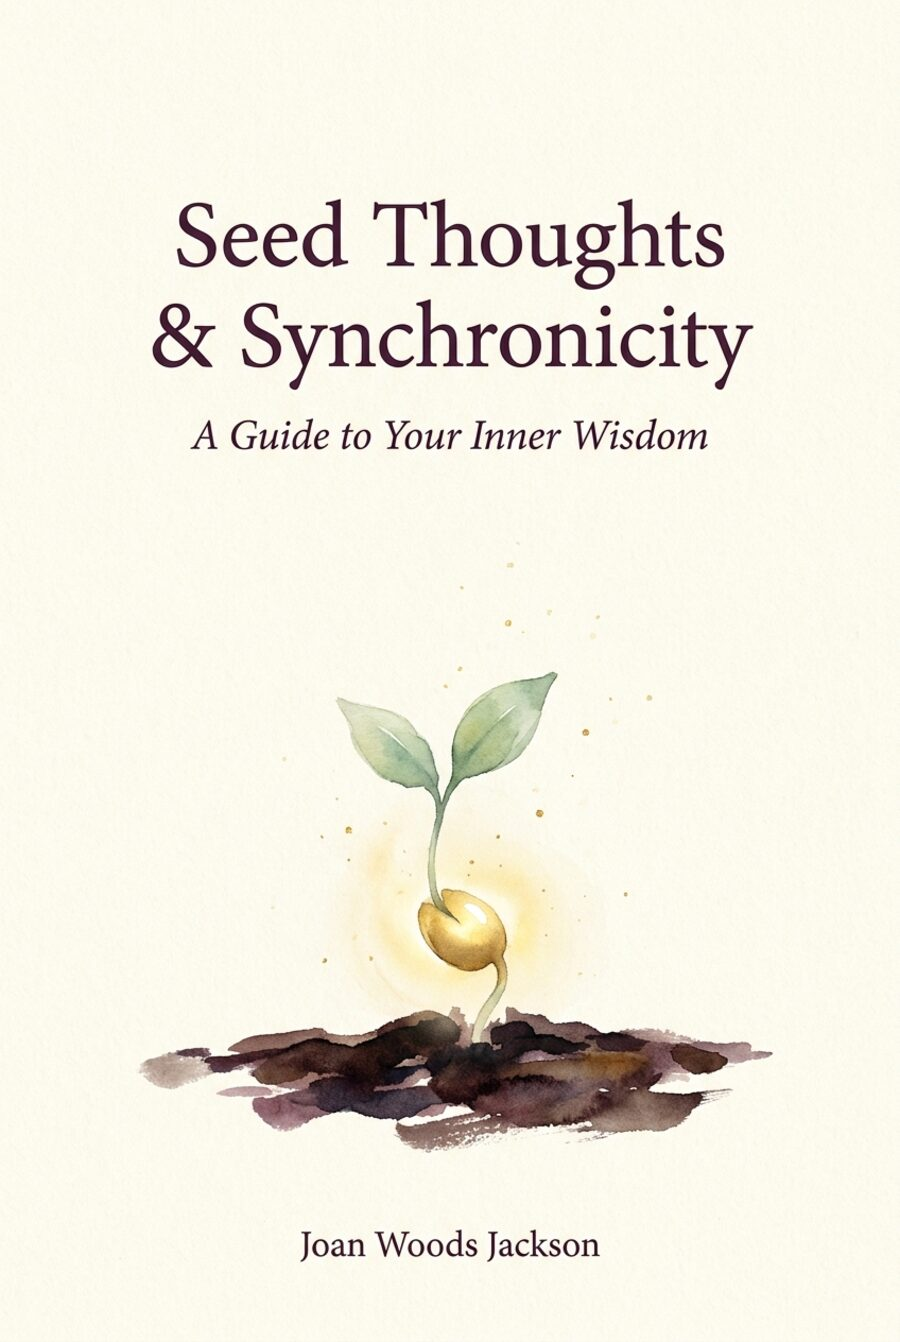
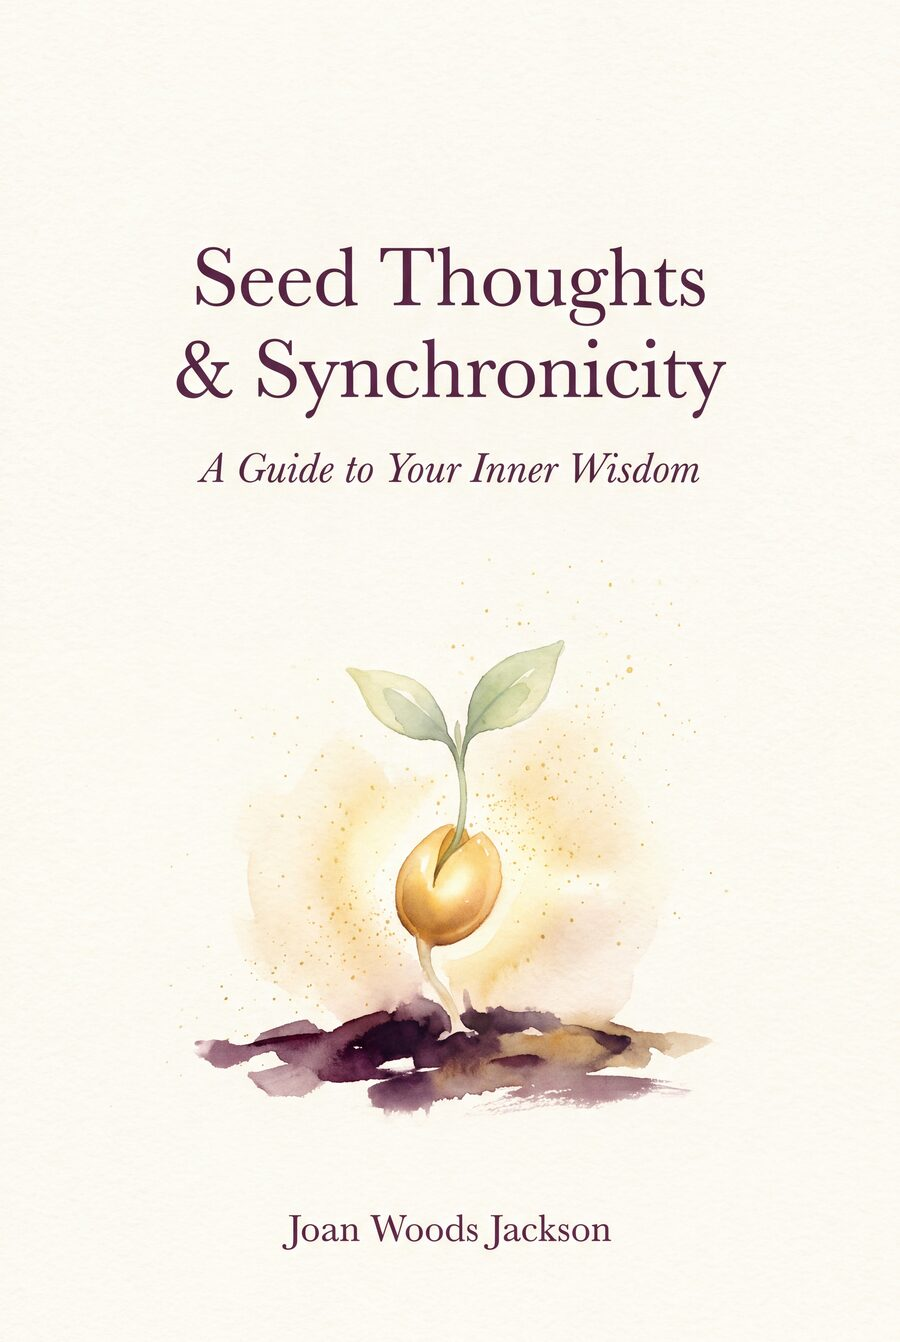
feat: print-quality cover downloads; remove contact form
- Regenerate all eight cover concepts at 4K (3392x5056, 300 DPI JPEG) and
  add a Download print-quality file button under each option
- Click-to-view now opens an 1800px version instead of the old 848px render
- Contact section back to a plain email link (Joan will set up a book address)

Claude-Session: https://claude.ai/code/session_01GNAew22NpWYATQ5ZuurREb

Changed region(s): [[0.1556, 0.4583, 0.8711, 0.8554], [0.1556, 0.1528, 0.84, 0.3666], [0.3111, 0.886, 0.6844, 0.9471]]

diff --git a/cover-options/index.html b/cover-options/index.html
@@ -27,6 +27,10 @@
         .idea__label { display: inline-block; margin-top: var(--space-5); font-family: var(--font-heading); font-size: var(--text-3xl); font-weight: 600; color: var(--color-earth); }
         .idea__label span { display: inline-block; min-width: 2.2em; padding: 0 var(--space-3); margin-right: var(--space-3); background: var(--color-gold); color: var(--color-white); border-radius: var(--border-radius); font-family: var(--font-body); font-size: var(--text-xl); font-weight: 600; letter-spacing: 0.05em; vertical-align: middle; line-height: 1.7; }
         .idea__note { font-size: var(--text-base); color: var(--color-text-light); max-width: 34ch; margin: var(--space-2) auto 0; }
+        .idea__download { display: inline-block; margin-top: var(--space-4); font-family: var(--font-body); font-size: var(--text-sm); letter-spacing: 0.08em; text-transform: uppercase; color: var(--color-earth); background: var(--color-white); border: 1px solid var(--color-gold); border-radius: var(--border-radius); padding: var(--space-2) var(--space-5); text-decoration: none; transition: background-color var(--transition-speed), color var(--transition-speed); }
+        .idea__download:hover, .idea__download:focus { background: var(--color-gold); color: var(--color-white); }
+        .ideas__print-note { max-width: var(--max-width-text); margin: var(--space-12) auto 0; padding: var(--space-6) var(--space-8); background: var(--color-white); border-left: 3px solid var(--color-gold); font-size: var(--text-base); color: var(--color-text-light); }
+        .ideas__print-note p { margin: 0 0 var(--space-3); } .ideas__print-note p:last-child { margin: 0; }
         .idea--current { background: rgba(255,255,255,0.6); border: 1px dashed var(--color-mauve); border-radius: var(--border-radius); padding: var(--space-6) var(--space-4); }
         .idea--current .idea__label span { background: var(--color-mauve); }
         .ideas__foot { text-align: center; margin-top: var(--space-16); font-size: var(--text-lg); }
@@ -51,7 +55,7 @@
                 <div class="decorative-line"></div>
                 <p>Here are eight ideas for a new cover, all made with your title, subtitle, and name. None of them is finished &mdash; think of them as sketches. Any color, picture, or lettering can be changed, and it is easy to make more from a new idea of yours.</p>
                 <div class="ideas__how">
-                    <strong>How to choose:</strong> look through the covers below, then reply to Ben&rsquo;s email with the <strong>number</strong> of the one or two you like best. You can also say what you like about one and dislike about another &mdash; that helps even more. Click any cover to see it larger.
+                    <strong>How to choose:</strong> look through the covers below, then reply to Ben&rsquo;s email with the <strong>number</strong> of the one or two you like best. You can also say what you like about one and dislike about another &mdash; that helps even more. Click any cover to see it larger. Under each one is a button that saves the full-size, print-quality file to your computer or phone.
                 </div>
             </div>
 
@@ -61,39 +65,43 @@
                     <figcaption><span class="idea__label"><span>Now</span>Your current cover</span><p class="idea__note">Here for comparison. If you love the painting, we can keep it and simply redo the lettering.</p></figcaption>
                 </figure>
                 <figure class="idea">
-                    <a href="../images/covers/option-1-full.jpg"><img src="../images/covers/option-1.jpg" alt="Option 1: a woman walking a sunlit golden road toward a rising sun between violet hills" width="900" height="1342" loading="eager"></a>
-                    <figcaption><span class="idea__label"><span>1</span>The Golden Path</span><p class="idea__note">Your original idea, painted fresh: a walker on a sunlit road toward the rising sun.</p></figcaption>
+                    <a href="../images/covers/option-1-large.jpg"><img src="../images/covers/option-1.jpg" alt="Option 1: a woman walking a sunlit golden road toward a rising sun between violet hills" width="900" height="1342" loading="eager"></a>
+                    <figcaption><span class="idea__label"><span>1</span>The Golden Path</span><p class="idea__note">Your original idea, painted fresh: a walker on a sunlit road toward the rising sun.</p><a class="idea__download" href="../images/covers/Seed-Thoughts-Cover-Option-1-PRINT.jpg" download="Seed-Thoughts-Cover-Option-1-PRINT.jpg">Download print-quality file</a></figcaption>
                 </figure>
                 <figure class="idea">
-                    <a href="../images/covers/option-2-full.jpg"><img src="../images/covers/option-2.jpg" alt="Option 2: a figure at the edge of a still lake at dusk with the sun reflected in the water" width="900" height="1342" loading="lazy"></a>
-                    <figcaption><span class="idea__label"><span>2</span>Still Water</span><p class="idea__note">A figure at the water&rsquo;s edge at dusk, the sun laying a golden line across the lake.</p></figcaption>
+                    <a href="../images/covers/option-2-large.jpg"><img src="../images/covers/option-2.jpg" alt="Option 2: a figure at the edge of a still lake at dusk with the sun reflected in the water" width="900" height="1342" loading="lazy"></a>
+                    <figcaption><span class="idea__label"><span>2</span>Still Water</span><p class="idea__note">A figure at the water&rsquo;s edge at dusk, the sun laying a golden line across the lake.</p><a class="idea__download" href="../images/covers/Seed-Thoughts-Cover-Option-2-PRINT.jpg" download="Seed-Thoughts-Cover-Option-2-PRINT.jpg">Download print-quality file</a></figcaption>
                 </figure>
                 <figure class="idea">
-                    <a href="../images/covers/option-3-full.jpg"><img src="../images/covers/option-3.jpg" alt="Option 3: a watercolor seedling sprouting from a glowing golden seed on cream paper" width="900" height="1342" loading="lazy"></a>
-                    <figcaption><span class="idea__label"><span>3</span>Seed of Light</span><p class="idea__note">A single seedling from a glowing seed. Quiet, simple, lots of open space.</p></figcaption>
+                    <a href="../images/covers/option-3-large.jpg"><img src="../images/covers/option-3.jpg" alt="Option 3: a watercolor seedling sprouting from a glowing golden seed on cream paper" width="900" height="1342" loading="lazy"></a>
+                    <figcaption><span class="idea__label"><span>3</span>Seed of Light</span><p class="idea__note">A single seedling from a glowing seed. Quiet, simple, lots of open space.</p><a class="idea__download" href="../images/covers/Seed-Thoughts-Cover-Option-3-PRINT.jpg" download="Seed-Thoughts-Cover-Option-3-PRINT.jpg">Download print-quality file</a></figcaption>
                 </figure>
                 <figure class="idea">
-                    <a href="../images/covers/option-4-full.jpg"><img src="../images/covers/option-4.jpg" alt="Option 4: a dandelion releasing seeds into a gold and lavender sky" width="900" height="1342" loading="lazy"></a>
-                    <figcaption><span class="idea__label"><span>4</span>Dandelion</span><p class="idea__note">Seeds lifting into a gold-and-lavender sky.</p></figcaption>
+                    <a href="../images/covers/option-4-large.jpg"><img src="../images/covers/option-4.jpg" alt="Option 4: a dandelion releasing seeds into a gold and lavender sky" width="900" height="1342" loading="lazy"></a>
+                    <figcaption><span class="idea__label"><span>4</span>Dandelion</span><p class="idea__note">Seeds lifting into a gold-and-lavender sky.</p><a class="idea__download" href="../images/covers/Seed-Thoughts-Cover-Option-4-PRINT.jpg" download="Seed-Thoughts-Cover-Option-4-PRINT.jpg">Download print-quality file</a></figcaption>
                 </figure>
                 <figure class="idea">
-                    <a href="../images/covers/option-5-full.jpg"><img src="../images/covers/option-5.jpg" alt="Option 5: a great old tree in a golden meadow at sunset" width="900" height="1342" loading="lazy"></a>
-                    <figcaption><span class="idea__label"><span>5</span>The Old Tree</span><p class="idea__note">A great tree in a golden meadow, a nod to your sycamore.</p></figcaption>
+                    <a href="../images/covers/option-5-large.jpg"><img src="../images/covers/option-5.jpg" alt="Option 5: a great old tree in a golden meadow at sunset" width="900" height="1342" loading="lazy"></a>
+                    <figcaption><span class="idea__label"><span>5</span>The Old Tree</span><p class="idea__note">A great tree in a golden meadow, a nod to your sycamore.</p><a class="idea__download" href="../images/covers/Seed-Thoughts-Cover-Option-5-PRINT.jpg" download="Seed-Thoughts-Cover-Option-5-PRINT.jpg">Download print-quality file</a></figcaption>
                 </figure>
                 <figure class="idea">
-                    <a href="../images/covers/option-6-full.jpg"><img src="../images/covers/option-6.jpg" alt="Option 6: a golden seed on dark plum water sending out ripples" width="900" height="1342" loading="lazy"></a>
-                    <figcaption><span class="idea__label"><span>6</span>Ripples</span><p class="idea__note">A golden seed touching still, deep-plum water. The one dark option.</p></figcaption>
+                    <a href="../images/covers/option-6-large.jpg"><img src="../images/covers/option-6.jpg" alt="Option 6: a golden seed on dark plum water sending out ripples" width="900" height="1342" loading="lazy"></a>
+                    <figcaption><span class="idea__label"><span>6</span>Ripples</span><p class="idea__note">A golden seed touching still, deep-plum water. The one dark option.</p><a class="idea__download" href="../images/covers/Seed-Thoughts-Cover-Option-6-PRINT.jpg" download="Seed-Thoughts-Cover-Option-6-PRINT.jpg">Download print-quality file</a></figcaption>
                 </figure>
                 <figure class="idea">
-                    <a href="../images/covers/option-7-full.jpg"><img src="../images/covers/option-7.jpg" alt="Option 7: a golden spiral of tiny seeds and leaves on cream linen" width="900" height="1342" loading="lazy"></a>
-                    <figcaption><span class="idea__label"><span>7</span>Spiral of Seeds</span><p class="idea__note">A gold spiral of seeds and leaves on cream linen. Classic and bookish.</p></figcaption>
+                    <a href="../images/covers/option-7-large.jpg"><img src="../images/covers/option-7.jpg" alt="Option 7: a golden spiral of tiny seeds and leaves on cream linen" width="900" height="1342" loading="lazy"></a>
+                    <figcaption><span class="idea__label"><span>7</span>Spiral of Seeds</span><p class="idea__note">A gold spiral of seeds and leaves on cream linen. Classic and bookish.</p><a class="idea__download" href="../images/covers/Seed-Thoughts-Cover-Option-7-PRINT.jpg" download="Seed-Thoughts-Cover-Option-7-PRINT.jpg">Download print-quality file</a></figcaption>
                 </figure>
                 <figure class="idea">
-                    <a href="../images/covers/option-8-full.jpg"><img src="../images/covers/option-8.jpg" alt="Option 8: a sprout in a terracotta pot on a farmhouse windowsill at dawn" width="900" height="1342" loading="lazy"></a>
-                    <figcaption><span class="idea__label"><span>8</span>Farmhouse Window</span><p class="idea__note">A sprout on an old windowsill in morning light.</p></figcaption>
+                    <a href="../images/covers/option-8-large.jpg"><img src="../images/covers/option-8.jpg" alt="Option 8: a sprout in a terracotta pot on a farmhouse windowsill at dawn" width="900" height="1342" loading="lazy"></a>
+                    <figcaption><span class="idea__label"><span>8</span>Farmhouse Window</span><p class="idea__note">A sprout on an old windowsill in morning light.</p><a class="idea__download" href="../images/covers/Seed-Thoughts-Cover-Option-8-PRINT.jpg" download="Seed-Thoughts-Cover-Option-8-PRINT.jpg">Download print-quality file</a></figcaption>
                 </figure>
             </div>
 
+            <div class="ideas__print-note">
+                <p><strong>About the files.</strong> Each &ldquo;Download print-quality file&rdquo; button saves a large JPEG (3,392 &times; 5,056 pixels at 300 dots per inch, about 8&ndash;10 MB). That is big enough to print as the front cover of a 6 &times; 9 inch book with room to spare, and it is the size Amazon and other printers ask for.</p>
+                <p>When you have chosen a favorite, Ben will prepare the final files a printer needs (the front, spine, and back together, sized to the page count) and can adjust the lettering or any detail before then. The web versions on this page are smaller copies for quick viewing.</p>
+            </div>
             <p class="ideas__foot">Don&rsquo;t see quite the right thing? Tell Ben what you picture &mdash; a scene, a feeling, a color &mdash; and he can have new ideas made in a day or two.<br><a href="../">Back to the website</a></p>
         </div>
     </main>

diff --git a/index.html b/index.html
@@ -150,23 +150,7 @@
                 <h2>Get in Touch</h2>
                 <div class="decorative-line"></div>
                 <p>Joan would love to hear from you &mdash; whether you have a question about the book, want to share your own Seed Thought creations, stories, poetry, or pictures, or simply want to say hello.</p>
-                <form class="contact__form" id="contact-form">
-                    <div class="contact__field">
-                        <label for="contact-name">Your name</label>
-                        <input id="contact-name" type="text" name="name" autocomplete="name">
-                    </div>
-                    <div class="contact__field">
-                        <label for="contact-email">Your email address</label>
-                        <input id="contact-email" type="email" name="email" autocomplete="email">
-                    </div>
-                    <div class="contact__field">
-                        <label for="contact-message">Your message</label>
-                        <textarea id="contact-message" name="message" rows="6"></textarea>
-                    </div>
-                    <button type="submit" class="contact__submit">Send Message</button>
-                    <p class="contact__status" role="status" aria-live="polite"></p>
-                    <p class="contact__fallback">Pressing Send opens your email program with the message ready to go. If nothing happens, you can write to Joan directly at <a class="contact__email contact__email--inline js-joan-email" href="#">(email address loads here)</a>.</p>
-                </form>
+                <a href="mailto:jacksonjo@aol.com" class="contact__email">jacksonjo@aol.com</a>
             </div>
         </section>
     </main>
@@ -176,40 +160,6 @@
         <p>&copy; 2026 Joan Woods Jackson. Website by Ben Bateman.</p>
         <p class="site-footer__credits">Photos by <a href="https://unsplash.com" target="_blank" rel="noopener">Unsplash</a></p>
     </footer>
-
-    <!-- Contact form: composes an email in the visitor's own mail program (no server involved) -->
-    <script>
-    (function() {
-        // Joan's address is assembled here rather than written in the page, so
-        // address-harvesting bots don't pick it up.
-        var joan = ['jacksonjo', 'aol.com'].join('@');
-        document.querySelectorAll('.js-joan-email').forEach(function(a) {
-            a.href = 'mailto:' + joan;
-            a.textContent = joan;
-        });
-        var form = document.getElementById('contact-form');
-        if (!form) { return; }
-        var status = form.querySelector('.contact__status');
-        form.addEventListener('submit', function(e) {
-            e.preventDefault();
-            var name = form.elements.name.value.trim();
-            var email = form.elements.email.value.trim();
-            var message = form.elements.message.value.trim();
-            if (!name || !email || !message || email.indexOf('@') < 1) {
-                status.textContent = 'Please fill in your name, email address, and message.';
-                status.className = 'contact__status contact__status--error';
-                return;
-            }
-            var subject = 'A note from your website, from ' + name;
-            var body = 'Hello Joan,\n\n' + message + '\n\n' + name + '\n' + email + '\n';
-            status.textContent = 'Opening your email program\u2026';
-            status.className = 'contact__status contact__status--ok';
-            window.location.href = 'mailto:' + joan +
-                '?subject=' + encodeURIComponent(subject) +
-                '&body=' + encodeURIComponent(body);
-        });
-    })();
-    </script>
 
     <!-- Scroll animations -->
     <script>

diff --git a/styles/page.css b/styles/page.css
@@ -345,105 +345,6 @@
 }
 
 
-/* --- Contact form --- */
-.contact__form {
-  max-width: 560px;
-  margin: var(--space-8) auto 0;
-  text-align: left;
-  display: flex;
-  flex-direction: column;
-  gap: var(--space-5);
-}
-
-.contact__field {
-  display: flex;
-  flex-direction: column;
-  gap: var(--space-2);
-}
-
-.contact__field label {
-  font-size: var(--text-base);
-  letter-spacing: 0.04em;
-  color: var(--color-gold);
-}
-
-.contact__field input,
-.contact__field textarea {
-  font-family: var(--font-body);
-  font-size: var(--text-lg);
-  color: var(--color-text);
-  background-color: var(--color-cream);
-  border: 1px solid rgba(212, 168, 83, 0.35);
-  border-radius: var(--border-radius);
-  padding: var(--space-3) var(--space-4);
-  width: 100%;
-}
-
-.contact__field textarea {
-  resize: vertical;
-  min-height: 140px;
-}
-
-.contact__field input:focus,
-.contact__field textarea:focus {
-  outline: 3px solid var(--color-gold);
-  outline-offset: 2px;
-}
-
-.contact__submit {
-  align-self: center;
-  font-family: var(--font-body);
-  font-size: var(--text-base);
-  letter-spacing: 0.15em;
-  text-transform: uppercase;
-  color: var(--color-earth);
-  background-color: var(--color-gold);
-  border: 1px solid var(--color-gold);
-  border-radius: var(--border-radius);
-  padding: var(--space-3) var(--space-8);
-  cursor: pointer;
-  transition: background-color var(--transition-speed), color var(--transition-speed);
-}
-
-.contact__submit:hover,
-.contact__submit:focus {
-  background-color: var(--color-cream);
-  color: var(--color-earth);
-}
-
-.contact__submit:disabled {
-  opacity: 0.6;
-  cursor: default;
-}
-
-.contact__status {
-  min-height: 1.6em;
-  margin: 0;
-  text-align: center;
-  font-size: var(--text-base);
-}
-
-.contact__status--ok {
-  color: var(--color-gold);
-}
-
-.contact__status--error {
-  color: #F2C4B3;
-}
-
-.contact__fallback {
-  font-size: var(--text-base);
-  color: rgba(245, 240, 232, 0.7);
-  text-align: center;
-  margin: var(--space-2) 0 0;
-}
-
-.contact__email--inline {
-  font-family: var(--font-body);
-  font-size: var(--text-base);
-  margin-top: 0;
-}
-
 /* --- Footer --- */
 .site-footer {
   background-color: var(--color-earth);
